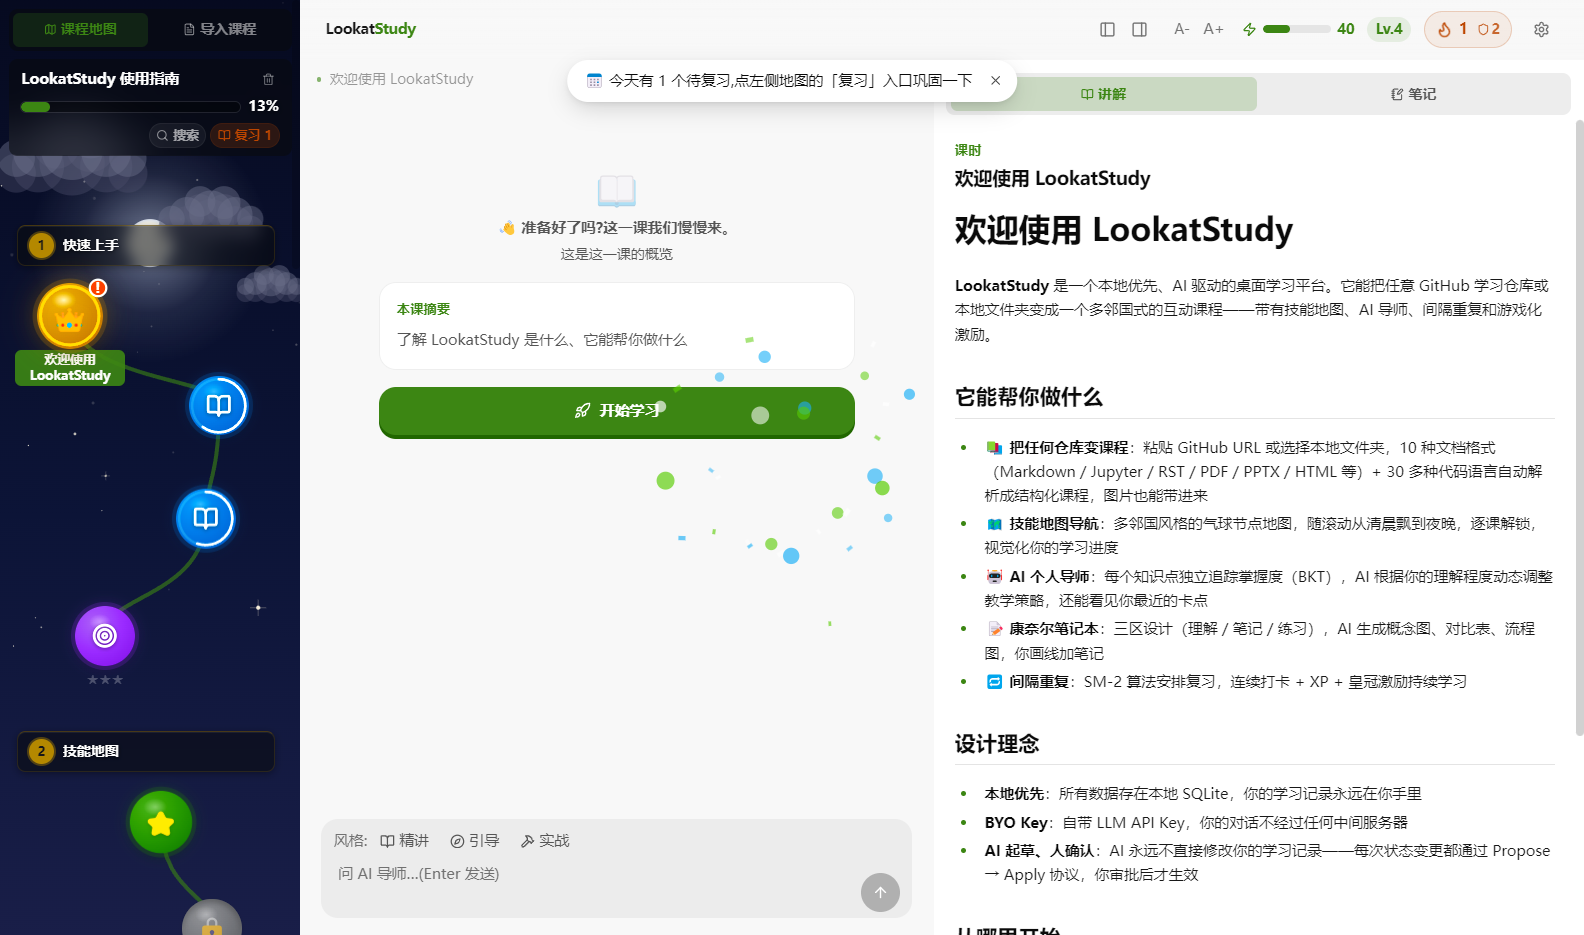
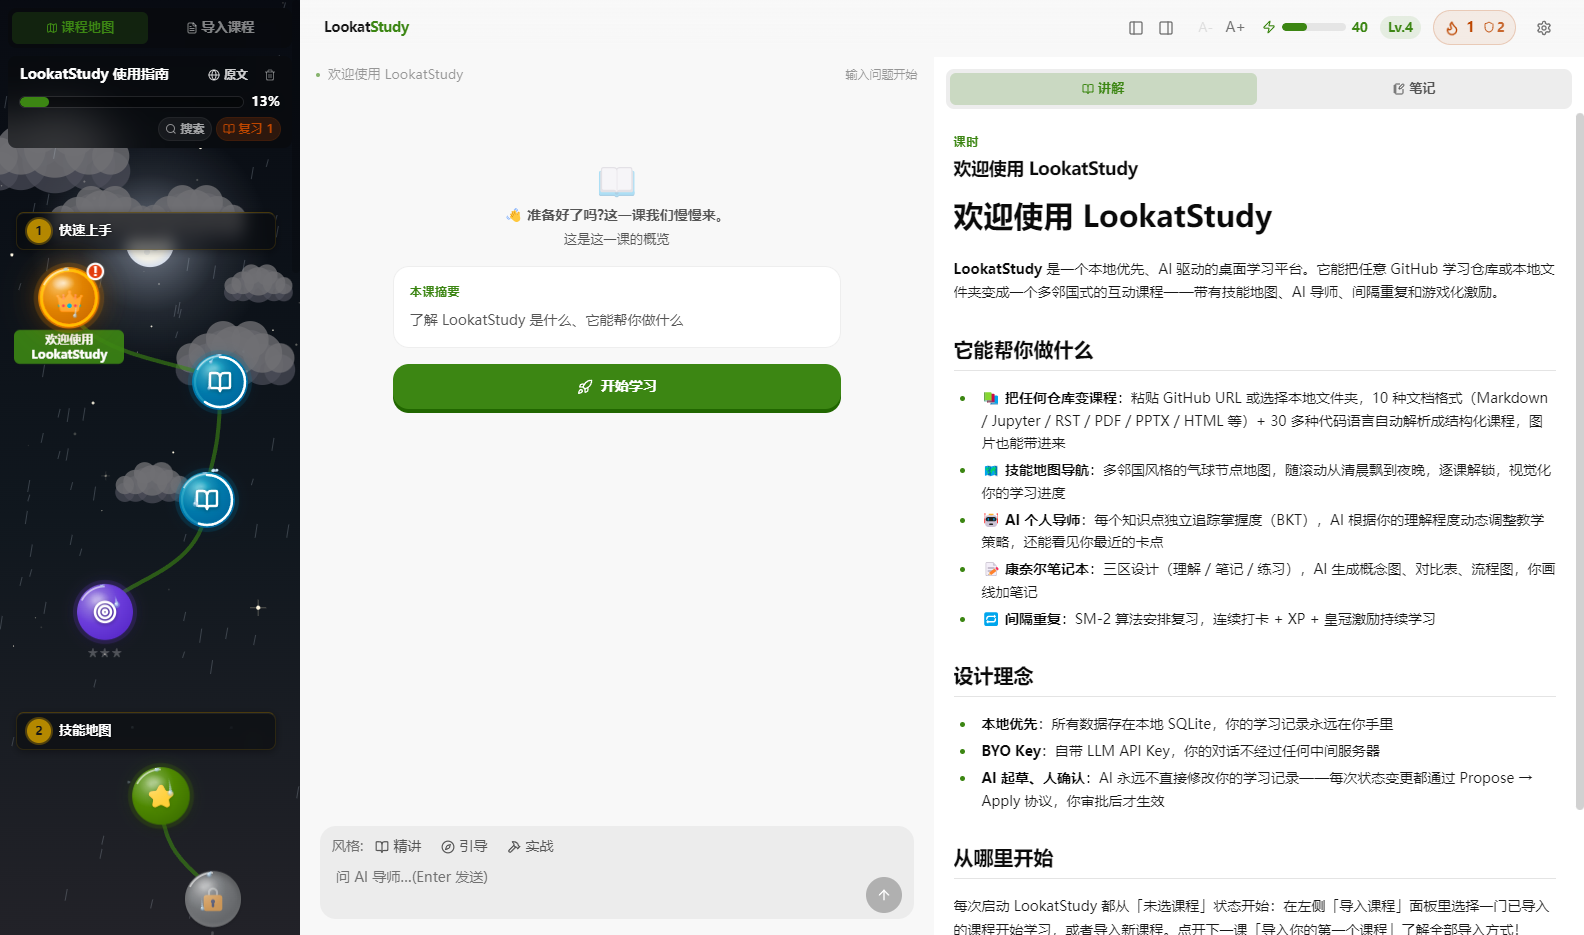
docs(readme): bilingual screenshots — English-mode AI tutor shot + hardened shots harness
02-ai-tutor.png is now captured in English mode: interface language en,
seed course via its built-in English translation, and the tutor replying in
English — one image showcasing both the bilingual guide course and the
AI-output-follows-UI-language behavior. 01/03 stay Chinese. Both READMEs gain
a one-line caption explaining the switch.

Shots harness fixes earned along the way: loadFile instead of reload()
(reload rejects with display-surface errors and hangs the run), an explicit
English-UI gate that fails the run instead of silently saving a Chinese 02,
capture retries with window re-show that never overwrite a good PNG with a
0-byte one, localStorage language restored after the run (shared userData),
and runShots wrapped so any crash still quits the app.

diff --git a/src/main/index.ts b/src/main/index.ts
@@ -10,7 +10,7 @@
  */
 import { app, BrowserWindow, shell } from "electron";
 import { join, resolve } from "node:path";
-import { writeFileSync, appendFileSync, mkdirSync } from "node:fs";
+import { writeFileSync, appendFileSync, mkdirSync, existsSync, statSync } from "node:fs";
 import { initDb, getDb, markDirty } from "./db/index.js";
 import { registerAllHandlers } from "./ipc/index.js";
 import { setupContextMenu } from "./context-menu.js";
@@ -209,7 +209,13 @@ app.whenReady().then(async () => {
 
   // 截图模式:npm run shots → docs/screenshots/*.png(README 素材维护)。
   if (process.argv.includes("--shots")) {
-    await runShots();
+    // runShots 内部任何未捕获异常都不能悬挂进程(UI 自动化偶发),保证退出
+    try {
+      await runShots();
+    } catch (e) {
+      console.error("SHOTS_CRASH=" + (e instanceof Error ? e.message : String(e)));
+      console.error("SHOTS_RESULT=" + JSON.stringify({ ok: false, saved: [] }));
+    }
     app.quit();
     return;
   }
@@ -303,14 +309,17 @@ async function runSelfTest(): Promise<void> {
  *
  * 独立临时 DB + .env 真 provider（LLM 开场是真实对话）;进度/待复习/XP/streak
  * seed 出"学过一阵"的地图观感(皇冠/进度环/锁/复习角标/能量条)。
- * 序列:选课 → 点首课球(选中+讲解) → 01-overview;开始学习 → 猜一轮等揭晓 →
- * 02-ai-tutor;搜索面板(全课程树) → 03-course-search。
+ * 序列:选课 → 点首课球(选中+讲解) → 01-overview(中文);第一章 Boss 考试
+ * (后台分批生成 → 开考计时答一题) → 03-exam-boss(中文);切英文模式(界面语言 en
+ * + 种子课程 🌐 en 翻译) → 开始学习 → 猜一轮等揭晓 → 02-ai-tutor(全英文,
+ * 展示双语课程 + AI 输出跟随界面语言)。
  * GPU 合成保持开启(whenReady 前的 disable 对 --shots 跳过),capturePage 才有真实帧。
  */
 async function runShots(): Promise<void> {
   const outDir = join(PROJECT_ROOT, "docs", "screenshots");
   mkdirSync(outDir, { recursive: true });
   const saved: string[] = [];
+  const failed: string[] = [];
 
   // provider:同 ui-test——.env 真 key → 真实 LLM 开场;无 key 用占位(只截界面)
   try {
@@ -381,14 +390,42 @@ async function runShots(): Promise<void> {
 
   const js = (code: string): Promise<unknown> =>
     win.webContents.executeJavaScript(code).catch(() => null);
+  const sizes: Record<string, number> = {};
+  const capture = async (): Promise<Buffer> => {
+    try {
+      return (await win.webContents.capturePage()).toPNG();
+    } catch {
+      return Buffer.alloc(0);
+    }
+  };
   const shot = async (name: string): Promise<void> => {
     await new Promise((r) => setTimeout(r, 800)); // 等入场动画/合成稳定
-    const img = await win.webContents.capturePage();
-    const png = img.toPNG();
+    let png = await capture();
+    for (let i = 0; i < 5 && png.length === 0; i++) {
+      // 偶发 0 字节(合成/显示表面丢失,长 LLM 等待后窗口闲置相关):唤起窗口再试
+      try {
+        win.show();
+        win.focus();
+      } catch {}
+      await new Promise((r) => setTimeout(r, 2500));
+      png = await capture();
+    }
+    const prev = join(outDir, name);
+    if (png.length === 0 && existsSync(prev) && statSync(prev).size > 0) {
+      // 宁可保留旧图也不用 0 字节覆盖好图;本次标记失败,结果里如实报告
+      failed.push(name);
+      console.error(`[lookatstudy] shot FAILED (0 bytes, kept old file): ${name}`);
+      return;
+    }
     writeFileSync(join(outDir, name), png);
     saved.push(name);
+    sizes[name] = png.length;
     console.error(`[lookatstudy] shot saved: ${name} (${png.length} bytes)`);
   };
+  // localStorage 在共享 userData 里(只有 DB 是临时的),英文模式写进去后必须还原,
+  // 否则正常启动的 app 会残留英文界面语言
+  const restoreLang = (): Promise<unknown> =>
+    js(`(function(){ try { localStorage.removeItem("lookatstudy-lang"); } catch (e) {} return true; })()`);
 
   // 渲染层挂载
   await js(`(async function(){
@@ -422,6 +459,105 @@ async function runShots(): Promise<void> {
     return false;
   })()`);
   await shot("01-overview.png");
+
+  // 第一章 Boss 考试:点考试球(map testid 用 id 前 8 位,六个考试球同为 guide-ex,取第一个可点的)
+  // → 后台按知识点分批生成(种子课无 KC,走课时标题伪 KC,5 题一批)→ 就绪 → 开考 → 截答题界面。
+  await js(`(async function(){
+    var nodes = document.querySelectorAll('[data-testid="exam-node-guide-ex"]');
+    for (const n of nodes) { if (!n.disabled) { n.click(); break; } }
+    for (var i = 0; i < 960; i++) { // 最多 240s 等生成分批出题
+      await new Promise(function(r){ setTimeout(r, 250); });
+      var ready = document.querySelector('[data-testid="exam-start-btn"]');
+      var failed = document.querySelector('[data-testid="exam-error"]');
+      if (ready || failed) return true;
+    }
+    return false;
+  })()`);
+  await js(`(async function(){
+    var btn = document.querySelector('[data-testid="exam-start-btn"]');
+    if (!btn) return false;
+    btn.click();
+    for (var i = 0; i < 80; i++) {
+      await new Promise(function(r){ setTimeout(r, 250); });
+      if (document.querySelector('[data-testid="exam-answering"]') && document.querySelector('[data-testid="exam-timer"]')) return true;
+    }
+    return false;
+  })()`);
+  await js(`(async function(){
+    var opt = document.querySelector('[data-testid="exam-option-0"]');
+    if (opt) opt.click();
+    // 选完停 8 秒:倒计时环走掉一段(看得出是限时),选中态也稳了
+    await new Promise(function(r){ setTimeout(r, 8000); });
+    return true;
+  })()`);
+  await shot("03-exam-boss.png");
+
+  // ── 02 英文模式:界面语言 → en + 课程 🌐 → en 翻译,reload 重进 ──
+  // 一张图演示三件事:双语种子课程(🌐 英文翻译)、英文界面、导师英文回复(AI 输出语言跟随界面语言)。
+  await js(`(async function(){
+    localStorage.setItem("lookatstudy-lang", "en");
+    await window.api.setCourseLanguage("seed-lookatstudy-guide", "en");
+    return true;
+  })()`);
+  // reload() 在部分环境会以 "display surface not available" reject 后悬挂;
+  // loadFile 与启动加载同路径,更稳
+  await win.webContents
+    .loadFile(join(PROJECT_ROOT, "dist/renderer/index.html"))
+    .catch((e) => console.error("[lookatstudy] shots loadFile failed:", e instanceof Error ? e.message : e));
+  await js(`(async function(){
+    for (var i = 0; i < 60; i++) {
+      await new Promise(function(r){ setTimeout(r, 250); });
+      if (document.querySelector('[data-testid="course-list"]')) return true;
+    }
+    return false;
+  })()`);
+  await js(`(async function(){
+    var row = document.querySelector('[data-testid="course-list"] button');
+    if (!row) return false;
+    row.click();
+    for (var i = 0; i < 40; i++) {
+      await new Promise(function(r){ setTimeout(r, 250); });
+      if (document.querySelectorAll('[data-testid^="map-node-"]').length >= 1) return true;
+    }
+    return false;
+  })()`);
+  await js(`(async function(){
+    var btns = document.querySelectorAll('[data-testid^="map-node-"]');
+    for (const b of btns) { if (!b.disabled) { b.click(); break; } }
+    for (var i = 0; i < 40; i++) {
+      await new Promise(function(r){ setTimeout(r, 250); });
+      if (document.querySelector('[data-testid="notebook-panel"]')) return true;
+    }
+    return false;
+  })()`);
+
+  // 切换校验:开始学习按钮必须是英文文案。宁可失败退出也不存一张中文的 02
+  // (之前 js() 吞错导致静默切失败,存出中文图)。
+  const diag = await js(`(function(){
+    var btn = document.querySelector('[data-testid="start-learning-btn"]');
+    return JSON.stringify({
+      href: location.href,
+      lang: localStorage.getItem("lookatstudy-lang"),
+      btn: btn ? String(btn.textContent || "").slice(0, 60) : null
+    });
+  })()`);
+  console.error("SHOTS_EN_DIAG=" + String(diag));
+  const enOk = await js(`(async function(){
+    // 按钮实际渲染 "Start Learning"(大小写不定),用小写比较
+    for (var i = 0; i < 40; i++) {
+      var btn = document.querySelector('[data-testid="start-learning-btn"]');
+      var t = btn ? String(btn.textContent || "").toLowerCase() : "";
+      if (t.indexOf("start learning") !== -1) return true;
+      await new Promise(function(r){ setTimeout(r, 250); });
+    }
+    return false;
+  })()`);
+  if (enOk !== true) {
+    console.error("SHOTS_EN_SWITCH_FAILED=1 (界面未切到英文,放弃 02)");
+    await restoreLang();
+    console.error("SHOTS_RESULT=" + JSON.stringify({ ok: false, saved }));
+    return;
+  }
 
   // 开始学习 → 等 LLM 第一轮(hook + 二选一卡) → 点一个选项 → 等第二轮揭晓
   const WAIT_REPLY = `(async function(){
@@ -462,40 +598,10 @@ async function runShots(): Promise<void> {
     if (picked === true) await js(WAIT_REPLY);
   }
   await shot("02-ai-tutor.png");
+  await restoreLang();
 
-  // 第一章 Boss 考试:点考试球(map testid 用 id 前 8 位,六个考试球同为 guide-ex,取第一个可点的)
-  // → 后台按知识点分批生成(种子课无 KC,走课时标题伪 KC,5 题一批)→ 就绪 → 开考 → 截答题界面。
-  await js(`(async function(){
-    var nodes = document.querySelectorAll('[data-testid="exam-node-guide-ex"]');
-    for (const n of nodes) { if (!n.disabled) { n.click(); break; } }
-    for (var i = 0; i < 960; i++) { // 最多 240s 等生成分批出题
-      await new Promise(function(r){ setTimeout(r, 250); });
-      var ready = document.querySelector('[data-testid="exam-start-btn"]');
-      var failed = document.querySelector('[data-testid="exam-error"]');
-      if (ready || failed) return true;
-    }
-    return false;
-  })()`);
-  await js(`(async function(){
-    var btn = document.querySelector('[data-testid="exam-start-btn"]');
-    if (!btn) return false;
-    btn.click();
-    for (var i = 0; i < 80; i++) {
-      await new Promise(function(r){ setTimeout(r, 250); });
-      if (document.querySelector('[data-testid="exam-answering"]') && document.querySelector('[data-testid="exam-timer"]')) return true;
-    }
-    return false;
-  })()`);
-  await js(`(async function(){
-    var opt = document.querySelector('[data-testid="exam-option-0"]');
-    if (opt) opt.click();
-    // 选完停 8 秒:倒计时环走掉一段(看得出是限时),选中态也稳了
-    await new Promise(function(r){ setTimeout(r, 8000); });
-    return true;
-  })()`);
-  await shot("03-exam-boss.png");
-
-  console.error("SHOTS_RESULT=" + JSON.stringify({ ok: saved.length === 3, saved }));
+  const ok = saved.length === 3 && failed.length === 0 && saved.every((s) => (sizes[s] ?? 0) > 0);
+  console.error("SHOTS_RESULT=" + JSON.stringify({ ok, saved, failed, sizes }));
 }
 
 app.on("window-all-closed", () => {

diff --git a/CHANGELOG.md b/CHANGELOG.md
@@ -20,7 +20,7 @@ Entry conventions for contributors:
 - **GitHub Actions CI(`.github/workflows/ci.yml`)** —— push(main)/PR/手动触发,ubuntu 跑 oxlint + 双 tsc typecheck + 65 个 verify 套件 + vite build,外部坏 PR 在 CI 就被挡住。运行器与 engines 底线定为 **Node 22**(tsx 4 在 Node 20 上经 data: URL 解析相对导入会挂,verify 套件在 20 跑不起来;本机开发环境是 Node 24)。
 - **多平台打包 workflow(`.github/workflows/package.yml`)** —— workflow_dispatch(任意分支可试跑,可带 `release_tag` 输入让 CI 云端直挂安装包到既有 release,免本机中转)或推 `v*` 标签触发,windows/macos/ubuntu 矩阵各跑构建,产物(NSIS exe / arm64 dmg / AppImage / deb)传 workflow artifacts;attach 任务用 `gh release upload --clobber` 挂到对应 GitHub Release。三个实测才修对的配置:mac `identity: null` 免签名(CI 无 Apple 证书,未签名 dmg 首开需右键打开)、`electron-builder --publish never`(GH Actions 里检测到 CI 会默认自动 publish,找不到 GH_TOKEN 而死)、workflow 声明 `permissions: contents: write`(默认 GITHUB_TOKEN 只读,gh release upload 403);deb 元数据还要求 package.json 的 author 带 email(已补)。v0.9.0 release 据此挂齐四平台安装包,exe 换成 CI 可复现构建。
 - **CONTRIBUTING.md** —— 人类贡献者指引(环境/验证清单/最容易踩的铁律/commit 与 changelog 约定),与 AGENTS.md 互为补充。
-- **`npm run shots` —— README 截图自动采集模式(`--shots`)** —— 无头窗口 + 临时 DB(`lookatstudy-shots.db`)+ .env 真 provider + 预置"学过一阵"状态(皇冠/进度环/锁定球/待复习徽章/XP 能量条/Boss 考试球解锁),驱动真实 UI(点开始学习 → 真 LLM 二选一猜测卡 → 揭晓;点第一章考试球 → 后台分批生成 → 开考计时答一题)并 capturePage 截 3 张 PNG 进 `docs/screenshots/`(概览/AI 导师/Boss 考试)。本模式独享例外:GPU 加速保持开启(capturePage 需要合成,生产路径仍 disableHardwareAcceleration)。
+- **`npm run shots` —— README 截图自动采集模式(`--shots`)** —— 无头窗口 + 临时 DB(`lookatstudy-shots.db`)+ .env 真 provider + 预置"学过一阵"状态(皇冠/进度环/锁定球/待复习徽章/XP 能量条/Boss 考试球解锁),驱动真实 UI(点开始学习 → 真 LLM 二选一猜测卡 → 揭晓;点第一章考试球 → 后台分批生成 → 开考计时答一题)并 capturePage 截 3 张 PNG 进 `docs/screenshots/`(概览/Boss 考试为中文;02-AI 导师在英文模式采集——界面语言切 en + 种子课程 🌐 en 翻译 + 导师英文回复,一张图同时演示双语课程和"AI 输出跟随界面语言")。本模式独享例外:GPU 加速保持开启(capturePage 需要合成,生产路径仍 disableHardwareAcceleration)。实战修出的鲁棒性(每条都是真实踩坑):capturePage 偶发 0 字节/拒绝(长 LLM 等待后窗口闲置相关),唤起窗口重试至多 5 次且**绝不用 0 字节覆盖磁盘上的好图**;英文切换后校验按钮文案,没切过去宁可失败退出也不静默存中文图(js() 吞错曾把切换失败变成"成功");切英文用 loadFile 重载而非 reload()(后者会以 display surface 不可用 reject 后悬挂);localStorage 语言写进共享 userData,截完必须还原否则正常启动残留英文界面;runShots 任何异常保证 app.quit 不悬挂。
 - **内置引导课程双语化(原文 zh-CN + 内置 en 翻译)** —— 种子课程(LookatStudy 使用指南,SEED_VERSION 10→11)从单语变双语,和导入课程同一套机制:30 条英文翻译(6 章 + 18 课 + 6 考试标题)进 `content_node_translations`,地图标题卡的 🌐 切换器开箱即可演示原文/翻译切换,离线无 LLM。英文课文全部手工撰写(内联在 `build-guide-seed.mjs`),构建期自检缺译即报错。灌入逻辑抽成 `seed-apply.ts`(db 注入式,绕开 seed.ts→db/index 的 `?raw` 导入链),新增 `verify-seed-bilingual.mjs` 7 断言(结构/灌入/幂等/版本 bump 重建含 UNIQUE 冲突回归陷阱,闭环已证)。顺手修一个真 bug:🌐 切换器 `LOCALE_NAMES` 缺 `en` 条目,英文翻译显示成原始码 "en"(ui-test 新断言抓到)。
 - **AI 输出语言跟随界面语言(对话 + 出题)** —— 此前导师讲解、出题的提示词全部硬编码"用中文回答",英文界面用户被强行中文教学。现定位为**界面语言 = 偏好输出语言**(课程 🌐 只决定读哪份课文,不决定 AI 说什么):渲染层把 i18n 界面语言随消息/出题请求穿到主进程(`agent:chatThread`/`exam:prepare`/`exercise:generate` 加 locale 参),`resolveOutputLang`(`@shared/locales` 纯函数)解析后注入提示词——zh 路径与旧硬编码**逐字节一致**(默认行为零变化,verify 断言锁死),非 zh 用英文指令并显式点名工具参数(generate_quiz 的题干/选项/解析)也必须跟随;soul 人设是中文写的,注入后追加一句"人设只管行为不管语言"提醒。语言组装抽 `agent/base-prompt.ts` + 出题语言行 `questionLanguageLine`,exam/exercise prompt 同链;考试题库一次性生成,语言在生成时定格。新增 `verify-agent-locale.mjs` 10 断言(映射/指令/组装/解析,两轮闭环已证:破坏 locale 传递与解析各红一次)。
 

diff --git a/README.md b/README.md
@@ -32,7 +32,9 @@ Sections and lessons turn into nodes on a path. Finish one and the next unlocks.
 
 ## The AI tutor knows which concept you're weak on
 
-<img src="docs/screenshots/02-ai-tutor.png" alt="The tutor opening a lesson with a guess-first question" width="880">
+<img src="docs/screenshots/02-ai-tutor.png" alt="The tutor in English mode, opening a lesson with a guess-first question" width="880">
+
+Same app as the screenshot above, switched to English: interface labels, the built-in course through its 🌐 translation toggle, and the tutor's replies all follow the interface language.
 
 This is the part I care most about. Every answer you give updates a BKT mastery model on the specific knowledge point behind the question. The tutor sees far more than "chapter 3, 70 percent". You're solid on recursion and shaky on closures, so it keeps asking about closures. When you click "I don't get this" in a chat, the stumble gets logged, and later explanations spend more time where you actually fell and less where you're already bored.
 

diff --git a/README.zh-CN.md b/README.zh-CN.md
@@ -32,7 +32,9 @@
 
 ## AI 导师知道你具体哪里弱
 
-<img src="docs/screenshots/02-ai-tutor.png" alt="AI 导师用一道猜测题开场" width="880">
+<img src="docs/screenshots/02-ai-tutor.png" alt="英文模式下的 AI 导师,用一道猜测题开场" width="880">
+
+还是同一个应用,只是切到了英文:界面语言、内置课程 🌐 开关切出的英文翻译、导师的回复,都跟着界面语言这一个开关走。
 
 这是我最在意的一块。每答一道题,答案都会更新对应知识点的 BKT 掌握模型。导师能看到比第三章 70% 细得多的东西。递归你很稳,闭包还发虚,它就专挑闭包问。你在聊天里点过"我没太懂",这些卡点会被记下来,后面的讲解会绕开你已经烦的地方,多讲你实际摔跟头的地方。
 
